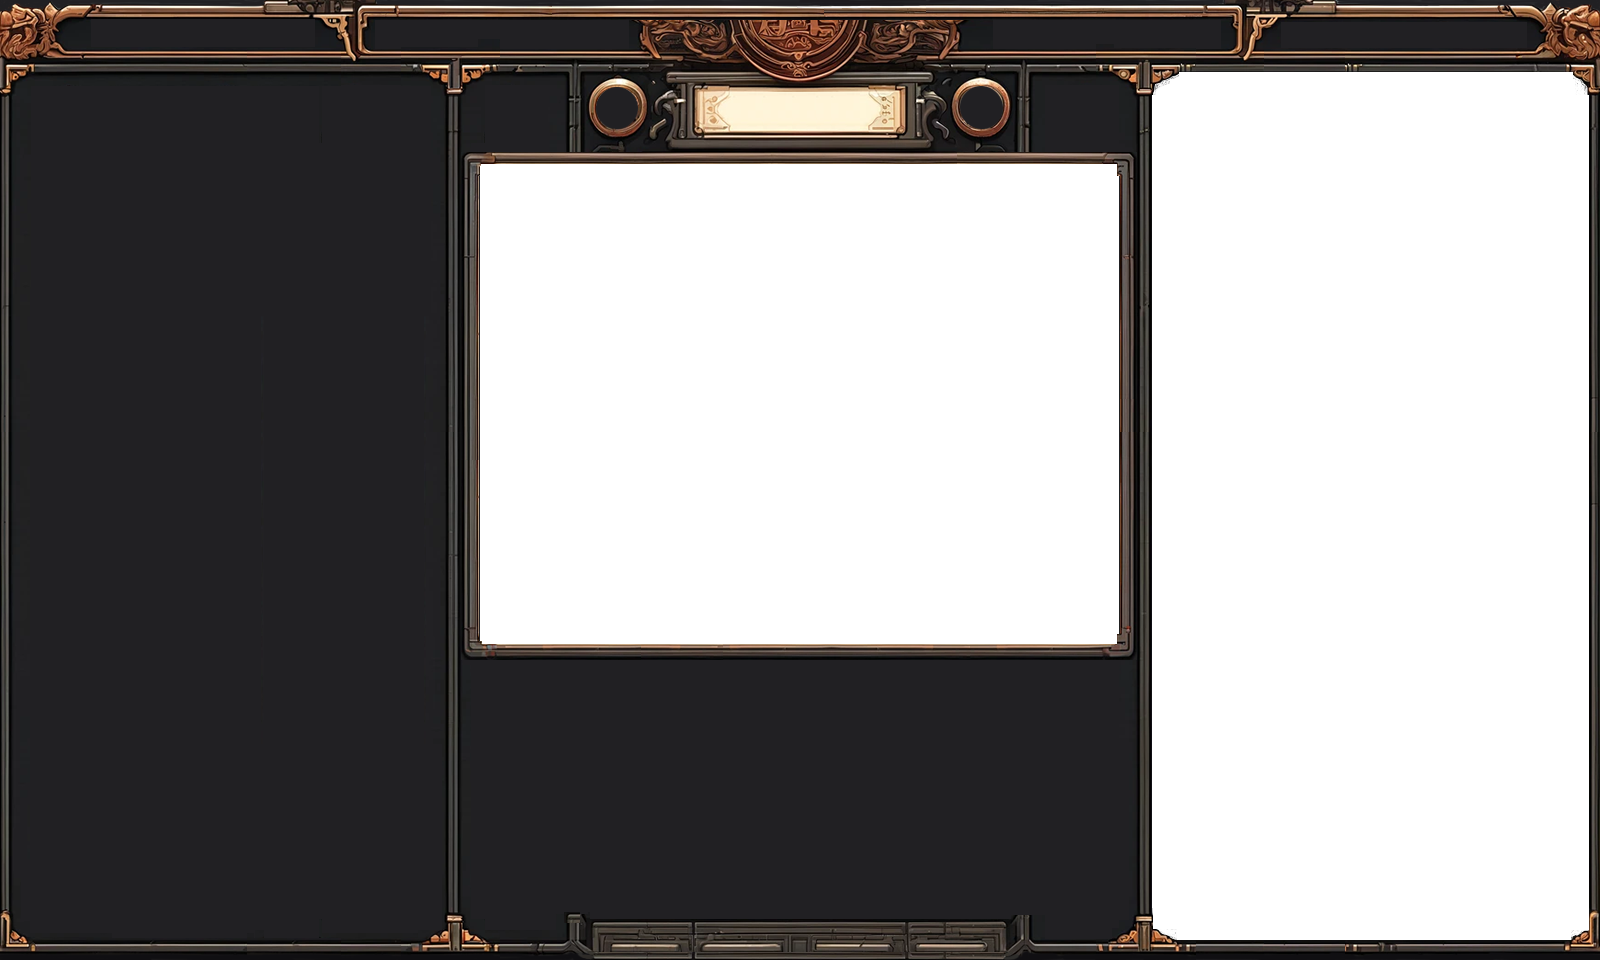
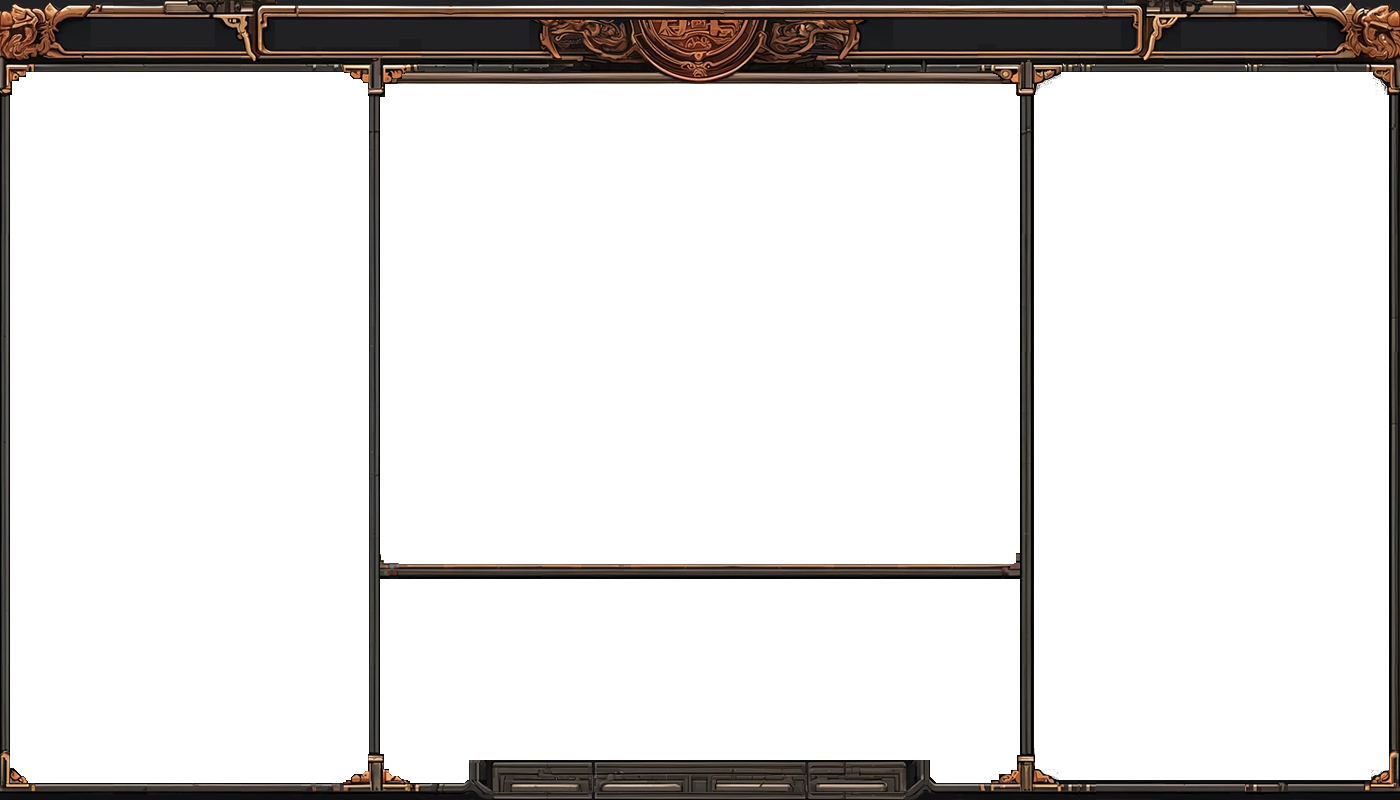
modified the main UI to make it smaller

diff --git a/main.py b/main.py
@@ -56,6 +56,7 @@ def main():
         
     
 
+
     # Initialize Pygame
     pygame.init()
 
@@ -68,11 +69,12 @@ def main():
 
     original_surface = pygame.Surface((GameConfig.SUB_SCENE_WIDTH, GameConfig.SUB_SCENE_HEIGHT))
     # scale_surface = pygame.transform.scale(original_surface, (SCALE_WIDTH, SCALE_HEIGHT))
-    WINDOW_SIZE = (1600, 960)
+    WINDOW_SIZE = (1400, 800)
+
 
 
     # Set up display
-    main_screen = pygame.display.set_mode((1600, 960))
+    main_screen = pygame.display.set_mode(WINDOW_SIZE)
 
     image = pygame.image.load("./resource/ui/main_ui_bg.png")
 
@@ -91,8 +93,6 @@ def main():
     <font color='#00FF00'>This is a <i>wrapped</i> text box</font>
 
     <font color='#0000FF'>This is a <u>wrapped</u> text box</font>
-    
-    看看中文行不行
 
     <font color='#FF0000' face='arial'>This is a <b>wrapped</b> text box</font> and somthing out of the font tag
 
@@ -140,7 +140,7 @@ def main():
     # Create a UITextBox with HTML-like theming
     text_box = pygame_gui.elements.UITextBox(
         html_text=display_html_text,
-        relative_rect=pygame.Rect((1151, 71), (441, 600)),
+        relative_rect=pygame.Rect((1033, 74), (359, 707)),
         manager=manager,
         object_id="#text_box"
     )
@@ -237,7 +237,7 @@ def main():
         
         main_screen.fill(DARK_GRAY)
         
-        main_screen.blit(screen, (481, 165))
+        main_screen.blit(screen, (381, 84))
         
 
         
@@ -277,6 +277,8 @@ def main():
 
     pygame.quit()
     # sys.exit()
+
+
 
 
 
